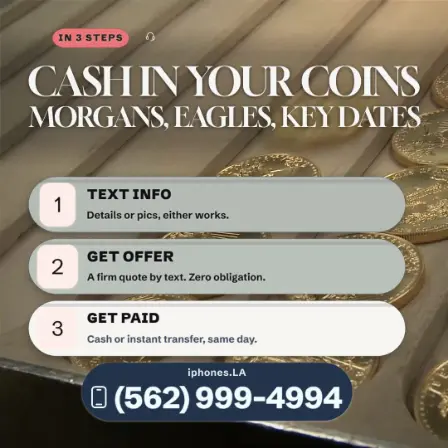
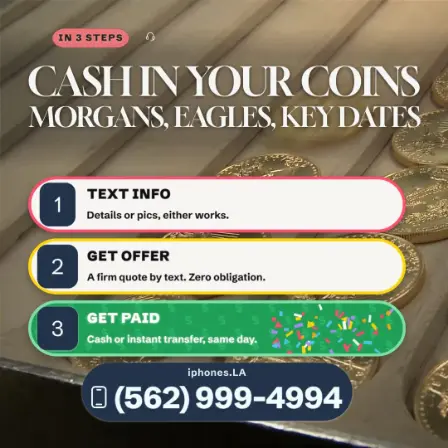
The coins Steps Flow card: party on "Get paid", one number style, colour accents
The owner, of stepsFlow-cd10-20 on the home page: "This one doesn't make
sense with the colors"; of the first prototypes, "why are the numbers all
different colors random? it's throwing me off and we need consistency";
then "confetti on #3?", and of the options, "party colors", "the pattern
fill", "color accents", "all good".

The card's three step plates were two sage greens and one white, each with
a faint bar across its top, and its numerals were three sizes.

- scripts/party_coins_steps.mjs writes the record: plates white, white,
  green; an outline on each, red, yellow, green; one navy box and one white
  numeral on every step, one size; one label size; the sheen bars gone.
  Each outlined plate stands in exactly the box it had (fabric measures an
  object with its stroke), so nothing on it moved. Re-runnable.
- app.js, partyPlate (appended; one line in buildLayer calls it): a rect
  whose record carries a `party` spec is filled with its colour, a quiet
  tone-on-tone $ lattice and seeded party-colour confetti. It is the
  plate's fill, not layers, so the pieces travel with the plate through
  every pass and format. The plate is the owner's (pgUser, rule 125), so
  the one-colour pass and the gate leave it. edPaintOf/edPaintSet are
  wrapped so the designer keeps the plate as its colour and spec.
- thumbnail re-baked with scripts/rethumb_showcase.mjs; ASSET_REV 20261111a.

Checked:
- scripts/audit_card.mjs stepsFlow-cd10-20: 120 of 161 pass, 113 before.
[…]

diff --git a/app.js b/app.js
@@ -19,7 +19,7 @@ const CUTOUT_EXT = '.webp';
    the app requests carries this revision; bump it whenever assets/bg,
    assets/cutouts, assets/grounds or assets/showcase change. Caches stay keyed
    by the bare path, which is what templates name. */
-const ASSET_REV = '20261012a';
+const ASSET_REV = '20261111a';
 function assetUrl(src){ return /^assets\//.test(String(src || '')) ? src + '?v=' + ASSET_REV : src; }
 
 // ---------- safe storage (works standalone; degrades to memory) ----------
@@ -2969,6 +2969,7 @@ function buildLayer(l, tplId, dw, dh){
       p.fill = hexToRgba(p.fill, plate ? 0.92 : 0.45);
     }
     obj = new fabric.Rect(p);
+    if (l.party && typeof partyPlate === 'function') partyPlate(obj, l.party);   // a plate that celebrates (partyPlate, end of file)
   }
   else if (l.kind === 'circle') obj = new fabric.Circle(p);
   else if (l.kind === 'path'){
@@ -21817,4 +21818,76 @@ function thMarksVisible(sc){
   taglineApply = function(sc){ const r = _tgApply.apply(this, arguments);
     try { if (typeof canvas !== 'undefined' && canvas && sc === canvas) canvas.getObjects().forEach(o => { if (edPaintable(o) && o.pgAutoFill != null) o.pgAutoFill = edFillKey(o); }); } catch (e){}
     return r; };
+}
+
+/* ═══ A PLATE THAT CELEBRATES (2026-11-11) ════════════════════════════════
+   The owner, of the coins Steps Flow card (stepsFlow-cd10-20), whose three
+   step plates were two sage greens and a white: "This one doesn't make sense
+   with the colors", then, shown the options, "confetti on #3?", "party
+   colors", "the pattern fill", "color accents", "all good".
+
+   A record may give a rect a `party` spec. The plate's fill is then painted
+   from it: the plate's own colour, a quiet tone-on-tone $ lattice, and
+   confetti in party colours at the end of the plate its words leave free.
+   It is the plate's FILL, not layers on top of it, so the pieces travel with
+   the plate through every layout pass and every format, can never be parted
+   from it, and add nothing to the layers a person sees in the designer.
+
+   The colours were chosen by the owner, so the plate is his, as a colour set
+   by hand is (pgUser; rule 125: "Rule 95 was against colours no one chose;
+   these were chosen"): the one-colour pass and the gate leave it. Seeded, so
+   every paint of the card draws the same pieces. Appended and wrapped, not
+   spliced (AGENT-BRIEF 1).
+     party: { base, glyph?, seed?, pieces?, from?, colors? }
+       base    the plate's colour
+       glyph   the lattice's colour (omit for no lattice)
+       from    where the confetti starts, as a share of the plate's width (0.6)
+       pieces  how many (60); colors: the party palette */
+function partyPlate(obj, spec){
+  if (!obj || !spec || typeof document === 'undefined') return obj;
+  const W = Math.max(8, Math.round(obj.width || 0)), H = Math.max(8, Math.round(obj.height || 0));
+  const cv = document.createElement('canvas'); cv.width = W; cv.height = H;
+  const g = cv.getContext('2d'); if (!g) return obj;
+  const base = spec.base || '#1f9d55', u = H / 138;                 // u: the pieces' size follows the plate's height
+  g.fillStyle = base; g.fillRect(0, 0, W, H);
+  let s = (spec.seed == null ? 1 : spec.seed) | 0;
+  const r = () => { s = s + 0x6D2B79F5 | 0; let t = Math.imul(s ^ s >>> 15, 1 | s); t = t + Math.imul(t ^ t >>> 7, 61 | t) ^ t; return ((t ^ t >>> 14) >>> 0) / 4294967296; };
+  if (spec.glyph){
+    g.fillStyle = spec.glyph; g.textAlign = 'center'; g.textBaseline = 'middle';
+    g.font = '800 ' + Math.round(30 * u) + 'px "Satoshi","Arial Black",Arial,sans-serif';
+    const sx = 84 * u, sy = 64 * u; let j = 0;
+    for (let y = sy * 0.25; y < H + sy; y += sy / 2, j++) for (let x = (j % 2 ? sx * 0.75 : sx * 0.25); x < W + sx; x += sx){ g.save(); g.translate(x, y); g.rotate(-0.22); g.fillText('$', 0, 0); g.restore(); }
+  }
+  const pal = Array.isArray(spec.colors) && spec.colors.length ? spec.colors : ['#ff4d6d', '#ffd60a', '#4cc9f0', '#ffffff', '#ff9f1c', '#b388ff'];
+  const from = spec.from == null ? 0.6 : spec.from, n = spec.pieces == null ? 60 : spec.pieces;
+  for (let i = 0; i < n; i++){
+    const x = W * (from + (0.97 - from) * r()), y = H * (0.07 + 0.86 * r()), k = r();
+    g.save(); g.translate(x, y); g.rotate(2 * Math.PI * r()); g.globalAlpha = 0.86 + 0.14 * r(); g.fillStyle = pal[Math.floor(r() * pal.length)];
+    if (k < 0.62){ const w = (12 + 12 * r()) * u, h = (5 + 4 * r()) * u; g.fillRect(-w / 2, -h / 2, w, h); }
+    else if (k < 0.86){ g.beginPath(); g.arc(0, 0, (3.5 + 3 * r()) * u, 0, 2 * Math.PI); g.fill(); }
+    else { const a = (7 + 3 * r()) * u; g.beginPath(); g.moveTo(0, -a); g.lineTo(a, a); g.lineTo(-a, a); g.closePath(); g.fill(); }
+    g.restore();
+  }
+  obj.set('fill', new fabric.Pattern({ source: cv, repeat: 'repeat' }));
+  obj.pgParty = spec; obj.pgUser = true; obj.dirty = true;
+  return obj;
+}
+EXTRA_PROPS.push('pgParty');
+{
+  /* the designer keeps each object's paint as data (edPaintOf) and puts it
+     back (edPaintSet). A party plate's paint is its colour and its spec, not
+     the picture drawn from them: kept as the colour, and drawn again when
+     that colour is put back. A person who gives the plate another colour has
+     taken it out of the party, and it stays the colour they gave it. */
+  const _of = edPaintOf, _set = edPaintSet;
+  const drawn = o => !!(o && o.pgParty && o.fill && typeof o.fill === 'object' && o.fill.source);
+  edPaintOf = function(o){ const p = _of.apply(this, arguments); if (p && drawn(o)) p.fill = o.pgParty.base || '#1f9d55'; return p; };
+  edPaintSet = function(o, p){
+    const r = _set.apply(this, arguments);
+    if (o && o.pgParty && p){
+      const same = typeof p.fill === 'string' && p.fill.toLowerCase() === String(o.pgParty.base || '#1f9d55').toLowerCase();
+      if (same) partyPlate(o, o.pgParty); else delete o.pgParty;
+    }
+    return r;
+  };
 }

diff --git a/tools/looks-lab/README.md b/tools/looks-lab/README.md
@@ -60,10 +60,13 @@ format but square.
 `card-prototypes/cards.cjs` repaints the gold and the coins Steps Flow cards
 at runtime to the owner's notes of 2026-11-11 (the notes and the measurements
 are at the top of the file). Prototypes only: the records are not changed. To
-make them real, the gold card needs its number placed by the engine with even
-margins in the band (today it is set 9px above the band's top edge), and the
-coins card needs its three plates set to one scheme in its record, in a way the
-one-colour pass (rule 95) accepts.
+make the gold card real, its number has to be placed by the engine with even
+margins in the band (today it is set 9px above the band's top edge).
+
+The coins card IS built (2026-11-11): the owner chose "party colors", "the
+pattern fill" and "color accents". `scripts/party_coins_steps.mjs` writes its
+record, and `partyPlate` at the end of `app.js` paints the green plate's $
+lattice and confetti as the plate's own fill.
 
 ## The headline lock
 
